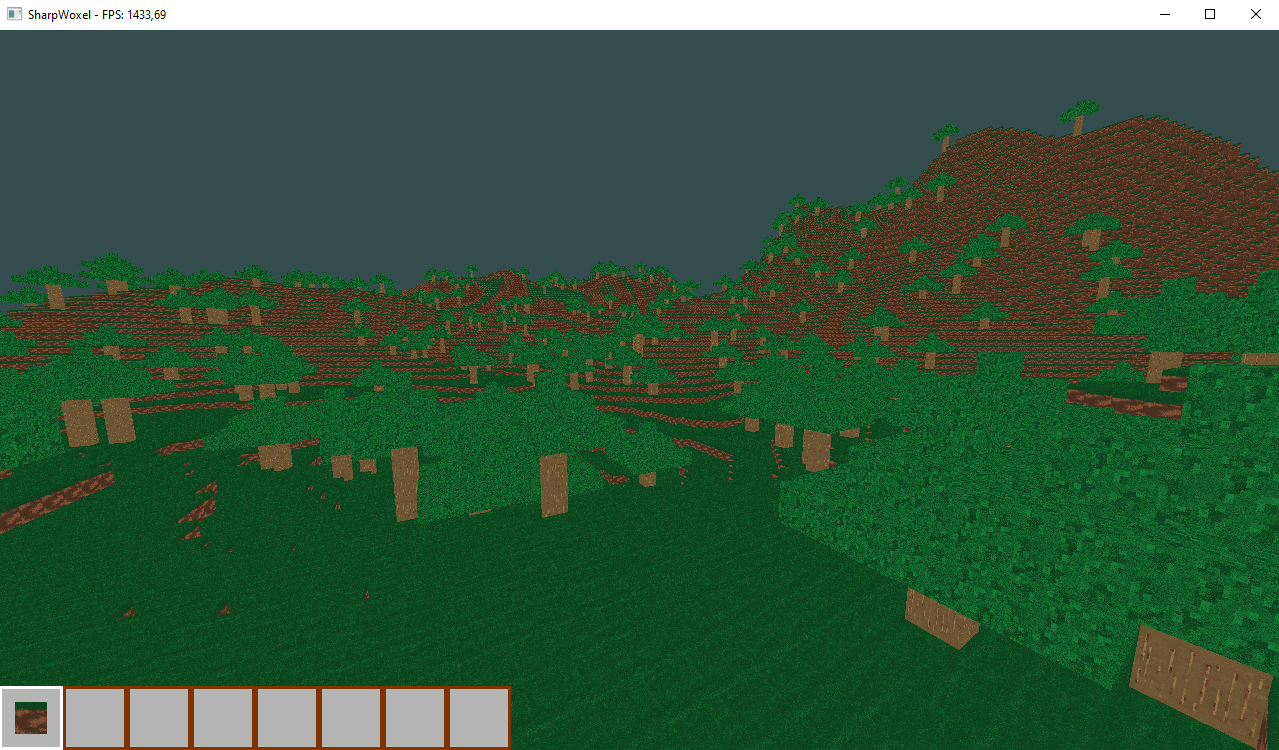
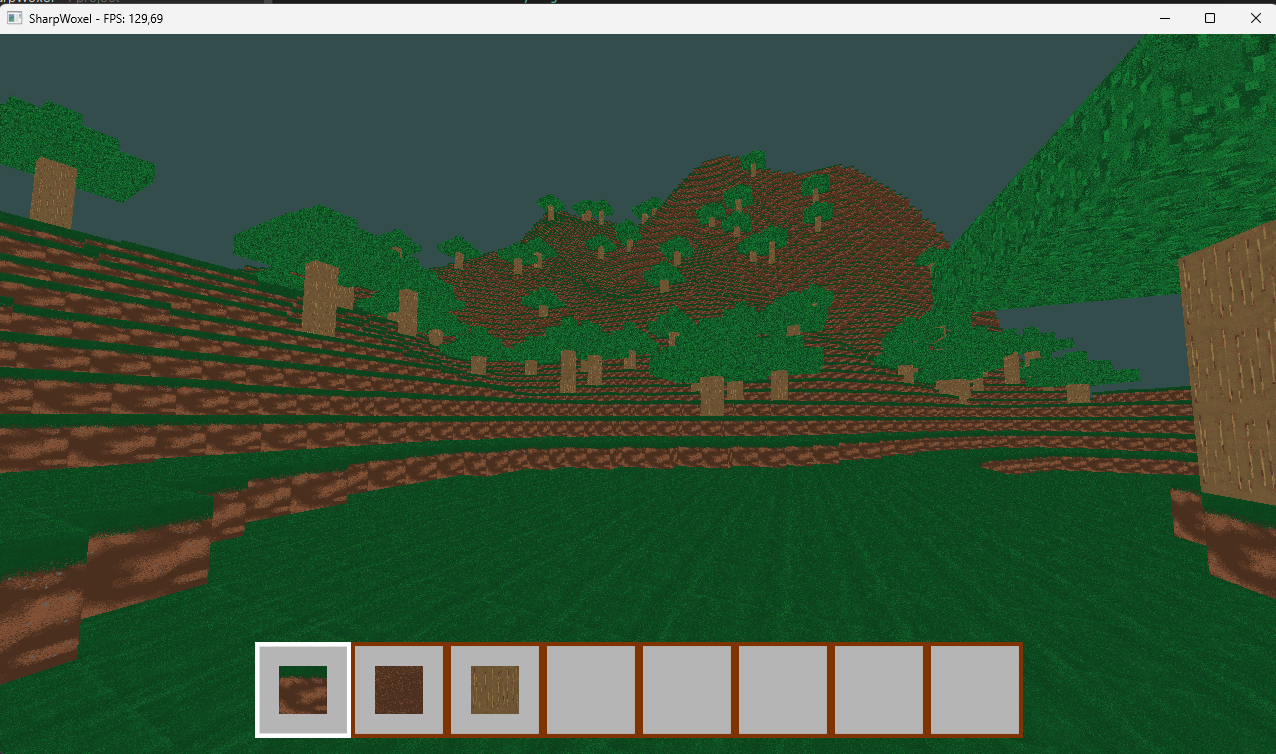
Add block breaking
- Entities can now be hidden

diff --git a/SharpWoxel/src/states/PlayingState.cs b/SharpWoxel/src/states/PlayingState.cs
@@ -45,10 +45,7 @@ internal class PlayingState : State
     private void HandleWindowFocus()
     {
         // Lock cursor (and hide it) to the screen if the window is in focus
-        if (GameRef.IsFocused)
-            GameRef.CursorState = CursorState.Grabbed;
-        else
-            GameRef.CursorState = CursorState.Normal;
+        GameRef.CursorState = GameRef.IsFocused ? CursorState.Grabbed : CursorState.Normal;
     }
 
     public override void OnUpdateFrame(double deltaTime)
@@ -70,12 +67,40 @@ internal class PlayingState : State
         _playerController.Update(deltaTime, GameRef.KeyboardState, GameRef.MouseState);
 
         // Update voxelOutline Position
-        var blockPosition = _world.CastRayFirstBlockIntersection(_playerController.Camera);
+        UpdateLookAtVoxel();
+
+        HandlePlayerBlockInteraction();
+    }
+
+    private void HandlePlayerBlockInteraction()
+    {
+        var mouseState = GameRef.MouseState;
+
+        if (mouseState.IsButtonPressed(MouseButton.Button1))
+        {
+            if (_voxelOutline.Hidden) return;
+            _world.BreakBlock((Vector3i)_voxelOutline.Position);
+        }
+
+        if (mouseState.IsButtonPressed(MouseButton.Button2))
+        {
+            var selectedItem = _playerController.PlayerInventory.GetSelected().Item;
+
+            if (_voxelOutline.Hidden || selectedItem == null) return;
+            _world.PlaceBlock((Vector3i)_voxelOutline.Position, selectedItem);
+        }
+    }
+
+    private void UpdateLookAtVoxel()
+    {
+        var blockPosition = _world.CastRayToFirstBlock(_playerController.Camera);
         if (blockPosition.HasValue)
         {
             var blockPos = blockPosition.Value;
             _voxelOutline.Position = (blockPos.X, blockPos.Y, blockPos.Z);
+            _voxelOutline.Hidden = false;
         }
+        else _voxelOutline.Hidden = true;
     }
 
     public override void OnRenderFrame(double deltaTime)

diff --git a/SharpWoxel/src/world/WorldModel.cs b/SharpWoxel/src/world/WorldModel.cs
@@ -1,6 +1,7 @@
 using OpenTK.Mathematics;
 using SharpWoxel.GLObjects;
 using SharpWoxel.util;
+using SharpWoxel.world.blocks;
 using SharpWoxel.world.terrain;
 
 namespace SharpWoxel.world;
@@ -9,7 +10,7 @@ internal class WorldModel(BaseTerrain terrain)
 {
     private readonly List<IWorldModelListener> _listeners = [];
 
-    private BaseTerrain Terrain { get; } = terrain;
+    public BaseTerrain Terrain { get; } = terrain;
 
     // Observer code
     public void Subscribe(IWorldModelListener listener)
@@ -45,7 +46,7 @@ internal class WorldModel(BaseTerrain terrain)
     {
     }
 
-    public Vector3i? CastRayFirstBlockIntersection(Camera camera, float rayMaxLength = 6f, float rayStep = 0.01f)
+    public Vector3i? CastRayToFirstBlock(Camera camera, float rayMaxLength = 6f, float rayStep = 0.01f)
     {
         for (var ray = new Ray(camera.Position, camera.Front); ray.GetLength() < rayMaxLength; ray.Step(rayStep))
         {
@@ -64,5 +65,17 @@ internal class WorldModel(BaseTerrain terrain)
         }
 
         return null;
+    }
+
+    public void PlaceBlock(Vector3i position, IBlock block)
+    {
+        var chunk = Terrain.GetChunkFromGlobal(position.X, position.Y, position.Z);
+        Terrain.SetBlockGlobal(position.X, position.Y, position.Z, block);
+        chunk.RebuildMesh();
+    }
+
+    public void BreakBlock(Vector3i position)
+    {
+        PlaceBlock(position, new AirBlock());
     }
 }

diff --git a/SharpWoxel/src/entities/Entity.cs b/SharpWoxel/src/entities/Entity.cs
@@ -9,7 +9,15 @@ internal abstract class Entity
     public Vector3 Position { get; set; } = Vector3.Zero;
     public Vector3 Rotation { get; set; } = Vector3.Zero;
     public Vector3 Scale { get; set; } = Vector3.One;
+    public bool Hidden = false;
 
-    public abstract void Render(Shader shader, Camera camera);
+    public void Render(Shader shader, Camera camera)
+    {
+        if (Hidden) return;
+        SetupRender(shader, camera);
+    }
+
     public abstract void Update(double deltaTime);
+
+    protected abstract void SetupRender(Shader shader, Camera camera);
 }

diff --git a/SharpWoxel/src/entities/SimpleEntity.cs b/SharpWoxel/src/entities/SimpleEntity.cs
@@ -69,7 +69,7 @@ internal class SimpleEntity(string texturePath) : Entity
         shader.SetMatrix4(shader.GetUniformLocation("mvp"), Maths.CreateMvpMatrix(camera, model));
     }
 
-    public override void Render(Shader shader, Camera camera)
+    protected override void SetupRender(Shader shader, Camera camera)
     {
         if (!_loadedVerticies || !_loadedTextureCoords || !_loadedEbo)
             throw new Exception("[SimpleEntity]: Not fully initialized");

diff --git a/SharpWoxel/src/world/Chunk.cs b/SharpWoxel/src/world/Chunk.cs
@@ -199,7 +199,7 @@ internal class Chunk
     private void RebuildNeighbours()
     {
         foreach (var neighbour in _neighbours)
-            neighbour.BuildMesh(); // vazno da NIJE rebuild onda je rekurzivno zvanje
+            neighbour?.BuildMesh(); // vazno da NIJE rebuild onda je rekurzivno zvanje
     }
 
     public override string ToString()

diff --git a/SharpWoxel/src/entities/ChunkEntity.cs b/SharpWoxel/src/entities/ChunkEntity.cs
@@ -15,7 +15,7 @@ internal class ChunkEntity : Entity
         TexAtlas = new TextureAtlas("../../../res/textureAtlas.png", 2048, 256);
     }
 
-    public override void Render(Shader shader, Camera camera)
+    protected override void SetupRender(Shader shader, Camera camera)
     {
         shader.Use();
         TexAtlas.Use(TextureUnit.Texture0);

diff --git a/SharpWoxel/src/entities/VoxelOutline.cs b/SharpWoxel/src/entities/VoxelOutline.cs
@@ -13,7 +13,7 @@ internal class VoxelOutline : Entity
         Scale *= (1.01f, 1.01f, 1.01f);
     }
 
-    public override void Render(Shader shader, Camera camera)
+    protected override void SetupRender(Shader shader, Camera camera)
     {
         shader.Use();
         var model = Maths.CreateTransformationMatrix(

diff --git a/SharpWoxel/src/player/PlayerController.cs b/SharpWoxel/src/player/PlayerController.cs
@@ -45,6 +45,10 @@ internal class PlayerController
                 PlayerInventory.SelectPrevious();
                 break;
         }
+
+        if (mouseInput.IsButtonPressed(MouseButton.Button1))
+        {
+        }
     }
 
     private void KeyboardInput(double deltaTime, KeyboardState keyInput)

diff --git a/SharpWoxel/src/Game.cs b/SharpWoxel/src/Game.cs
@@ -36,6 +36,8 @@ internal class Game(int width, int height, string title) : GameWindow(GameWindow
     {
         base.OnLoad();
 
+        this.VSync = VSyncMode.On;
+
         GL.ClearColor(0.2f, 0.3f, 0.3f, 1.0f);
 
         GL.Enable(EnableCap.DepthTest);

diff --git a/SharpWoxel/src/player/inventory/Inventory.cs b/SharpWoxel/src/player/inventory/Inventory.cs
@@ -57,4 +57,9 @@ internal class PlayerInventory
         else
             UpdateSelection(_currentlySelected - 1);
     }
+
+    public InventoryItem GetSelected()
+    {
+        return _items[_currentlySelected];
+    }
 }
